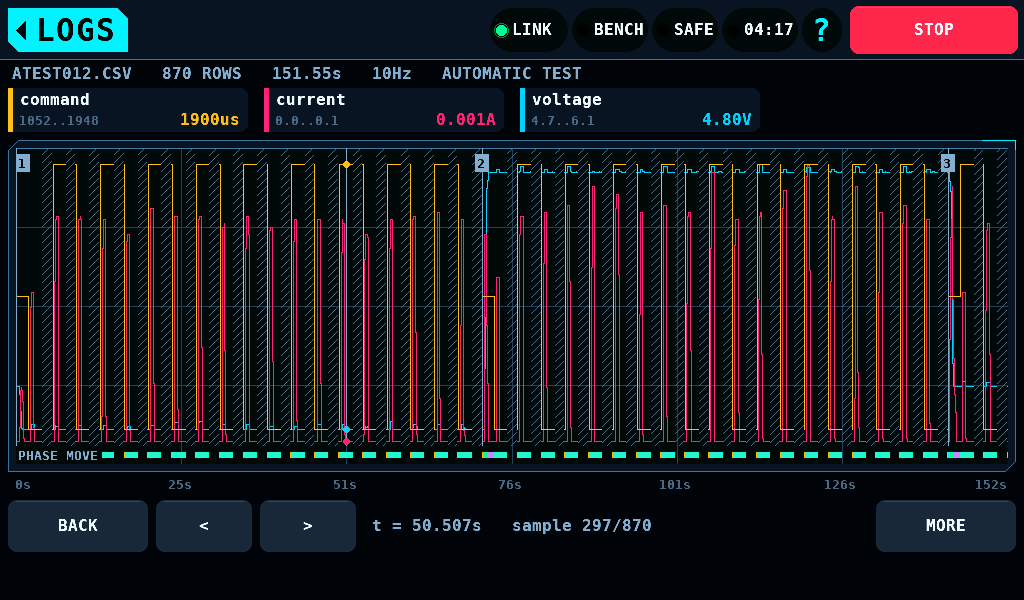
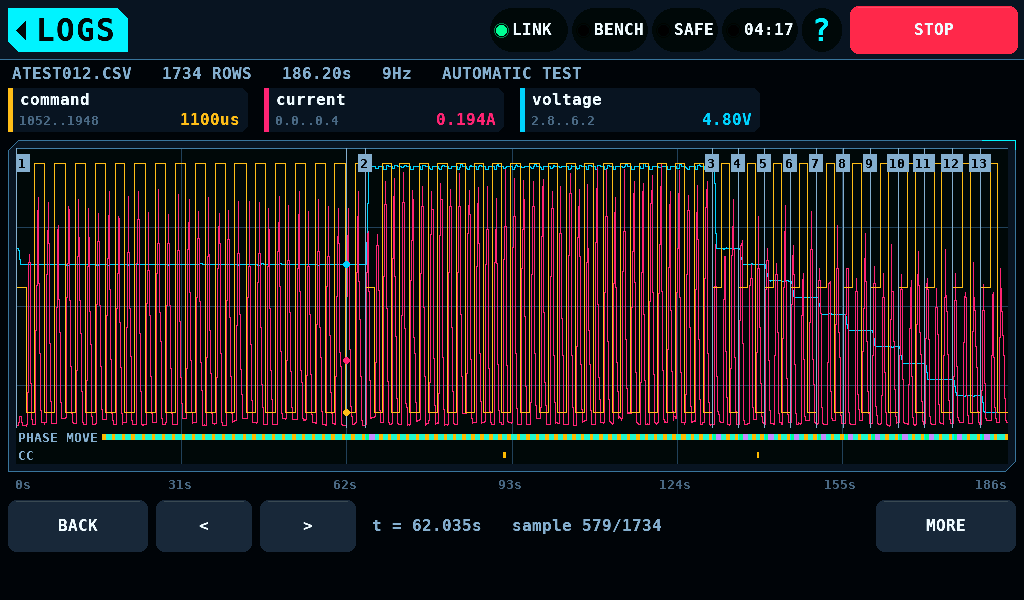
Compare time gaps in whole milliseconds and show the untrimmed ATEST run
A step of exactly the gap threshold read as a gap where the build's float
times made 0.7s to 1.2s 0.50000006s; step and threshold now round to whole
milliseconds. The ATEST writer logs every meter reading, holds included:
the gaps of servo-mg90s.csv are rows the replay recording trimmed, so the
docs view draws the untrimmed servo-ms24-pdmini.csv and the docs say a hold
is no gap.

diff --git a/test/host/test_logview_time.c b/test/host/test_logview_time.c
@@ -45,6 +45,7 @@
 /** @brief The bench's recordings, read from fixtures/. */
 static char g_mg90s[64 * 1024];
 static char g_ms24[96 * 1024];
+static char g_pdmini[128 * 1024];
 /** @brief The cases' own files, written by each case. */
 static char g_made[64 * 1024];
 
@@ -55,6 +56,7 @@ static const struct {
 } k_files[] = {
     { "ATEST012.CSV", g_mg90s },
     { "SERVO014.CSV", g_ms24 },
+    { "ATEST013.CSV", g_pdmini },
     { "MOTOR050.CSV", g_made },
     { "SUPPL051.CSV", g_made },
     { "ATEST052.CSV", g_made },
@@ -226,9 +228,10 @@ static int over_row(char *out, size_t n, int i)
 
 /* ------------------------------------------------------------- the cases */
 
-/* The AUTOMATIC TEST the bench recorded: drawn over its time, its steps a
- * line each, its phases a strip, the rows the logger did not write while a
- * position was held hatched. */
+/* The AUTOMATIC TEST the bench recorded, trimmed for the replay suite (of
+ * each command's MOVE and HOLD rows only those within 2.0s of its first and
+ * its last are kept): drawn over its time, its steps a line each, its
+ * phases a strip, the rows the trim took out hatched. */
 TEST_CASE(an_automatic_test_recorded_on_the_bench_draws_over_its_time)
 {
     char got[160];
@@ -285,6 +288,69 @@ TEST_CASE(an_automatic_test_recorded_on_the_bench_draws_over_its_time)
     /* The step line of step 2 down the traces, in the faint text. */
     CHECK(column_count(log_graph_row_px(405), LV_PV_TOP + 50,
                        log_graph_strip_y(0) - 6, UI_TEXT_DIM) > 100);
+}
+
+/* The untrimmed AUTOMATIC TEST of an MS24 on the PD mini: the writer
+ * takes a row at every meter reading in every phase, its 545 HOLD rows
+ * included, so no hold is a gap and nothing is hatched. */
+TEST_CASE(an_untrimmed_automatic_test_holds_without_a_gap)
+{
+    REQUIRE(read_fixture("servo-ms24-pdmini.csv", g_pdmini,
+                         sizeof(g_pdmini)));
+    REQUIRE(open_time("ATEST013.CSV"));
+    const log_data_t *d = log_viewer_data();
+    REQUIRE(d != NULL);
+    CHECK_EQ(d->count, 1734);
+    int gaps = 0;
+    for (int i = 1; i < d->count; ++i) {
+        gaps += log_graph_gap_before(i);
+    }
+    CHECK_EQ(gaps, 0);
+    int hatched = 0;
+    for (int x = PLOT_X0; x <= PLOT_X1; ++x) {
+        hatched += log_graph_gap_col(x);
+    }
+    CHECK_EQ(hatched, 0);
+}
+
+/* An AUTOMATIC TEST at the PD mini's 0.105s: a hold of 0.84s written row
+ * by row is no gap; 0.84s with no row in the middle of a move is one,
+ * hatched, the trace broken across it. */
+static int atest_row(char *out, size_t n, int i)
+{
+    /* Rows 0-9 MOVE, 10-17 HOLD, 18-21 MOVE, then 0.84s lost, 22-29 MOVE. */
+    const double t = 0.105 * (double)i + (i >= 22 ? 0.735 : 0.0);
+    const char *ph = (i >= 10 && i <= 17) ? "HOLD" : "MOVE";
+    return snprintf(out, n, "%.3f;STEP;1;%s;1900;%.3f;6.00;CV\n", t, ph,
+                    0.2 + 0.01 * (double)i);
+}
+
+TEST_CASE(an_automatic_test_hold_is_no_gap_and_rows_lost_mid_move_are)
+{
+    make("time (s);test;step;phase;command (us);current (A);voltage (V);"
+         "mode", 30, atest_row);
+    REQUIRE(open_time("ATEST052.CSV"));
+    int gaps = 0;
+    for (int i = 1; i < 30; ++i) {
+        gaps += log_graph_gap_before(i);
+    }
+    CHECK_EQ(gaps, 1);
+    CHECK(log_graph_gap_before(22));
+    for (int i = 10; i <= 18; ++i) {
+        CHECK(!log_graph_gap_before(i));
+    }
+    const int a = log_graph_row_px(21);
+    const int b = log_graph_row_px(22);
+    REQUIRE(b - a > 4);
+    CHECK(log_graph_gap_col((a + b) / 2));
+    CHECK(!log_graph_gap_col((log_graph_row_px(12) + log_graph_row_px(13))
+                             / 2));
+    const gfx_color_t cur = log_viewer_series_color(1);
+    int in_gap = 0;
+    for (int x = a + 1; x < b; ++x) {
+        in_gap += column_count(x, LV_PV_TOP + 50, LV_PV_BOTTOM - 20, cur);
+    }
+    CHECK_EQ(in_gap, 0);
 }
 
 /* The SERVO run of INA3221 windows: current and voltage over 69s, no strip
@@ -371,6 +437,41 @@ TEST_CASE(a_gap_of_the_threshold_is_none_and_one_interval_more_is_one)
                               UI_TEXT_FAINT);
     }
     CHECK(faint > 0);
+}
+
+/* 0.1s rows and a step from 0.7s to 1.2s: the floats the build keeps make
+ * it 0.50000006s, which is the 0.5s threshold and no gap; 0.7s to 1.201s,
+ * 1ms past it, is one. */
+static float g_jump_to;
+
+static int tenth_row(char *out, size_t n, int i)
+{
+    const double t = (i <= 7) ? 0.1 * (double)i
+                              : (double)g_jump_to + 0.1 * (double)(i - 8);
+    return snprintf(out, n, "%.3f;12.0;2.0;1000;20;measured\n", t);
+}
+
+TEST_CASE(a_step_of_the_threshold_in_float_times_is_no_gap)
+{
+    g_jump_to = 1.2f;
+    make("time (s);voltage (V);current (A);rpm (rpm);throttle (%);source",
+         30, tenth_row);
+    REQUIRE(open_time("MOTOR050.CSV"));
+    const log_data_t *d = log_viewer_data();
+    REQUIRE(d != NULL);
+    /* The floats' step is a hair over 0.5s. */
+    CHECK((double)d->time[8] - (double)d->time[7] > 0.5);
+    CHECK(!log_graph_gap_before(8));
+    g_jump_to = 1.201f;
+    make("time (s);voltage (V);current (A);rpm (rpm);throttle (%);source",
+         30, tenth_row);
+    REQUIRE(open_time("MOTOR050.CSV"));
+    CHECK(log_graph_gap_before(8));
+    int gaps = 0;
+    for (int i = 1; i < 30; ++i) {
+        gaps += log_graph_gap_before(i);
+    }
+    CHECK_EQ(gaps, 1);
 }
 
 /* A time that steps back: the build numbers the rows, so the graph spaces
@@ -626,8 +727,11 @@ TEST_CASE(a_time_file_speaks_german)
 int main(void)
 {
     RUN(an_automatic_test_recorded_on_the_bench_draws_over_its_time);
+    RUN(an_untrimmed_automatic_test_holds_without_a_gap);
+    RUN(an_automatic_test_hold_is_no_gap_and_rows_lost_mid_move_are);
     RUN(a_servo_run_of_ina3221_windows_draws_over_its_time);
     RUN(a_gap_of_the_threshold_is_none_and_one_interval_more_is_one);
+    RUN(a_step_of_the_threshold_in_float_times_is_no_gap);
     RUN(a_time_that_steps_back_spaces_the_rows_evenly);
     RUN(marks_past_256_are_counted_not_drawn);
     RUN(a_cell_above_its_range_and_a_clipped_window_are_spans);

diff --git a/test/host/render_screen.c b/test/host/render_screen.c
@@ -387,8 +387,9 @@ static size_t limit_search(size_t at, int *row, int search, bool high,
     }
 }
 
-/* The time graph's files: an AUTOMATIC TEST and a SERVO run of INA3221
- * windows as the bench recorded them (test/host/fixtures, the folder
+/* The time graph's files: an AUTOMATIC TEST (the untrimmed MS24 run on
+ * the PD mini) and a SERVO run of INA3221 windows as the bench recorded
+ * them (test/host/fixtures, the folder
  * render_ui.py names in RENDER_FIXTURE_DIR), and a SUPPLY run of 0.05s
  * rows that holds the set voltage, falls into CC at 2.00A from 4.00s to
  * 7.00s, runs on the model from 9.00s and misses its rows from 11.00s to
@@ -396,7 +397,7 @@ static size_t limit_search(size_t at, int *row, int search, bool high,
 #ifndef RENDER_FIXTURE_DIR
 #define RENDER_FIXTURE_DIR "test/host/fixtures"
 #endif
-static char g_mg90s_csv[65536];
+static char g_atest_csv[131072];
 static char g_ms24_csv[98304];
 static char g_suppl_csv[32768];
 static bool g_time_card;
@@ -419,7 +420,7 @@ static void read_fixture(const char *name, char *out, size_t cap)
 
 static void make_time_csvs(void)
 {
-    read_fixture("servo-mg90s.csv", g_mg90s_csv, sizeof(g_mg90s_csv));
+    read_fixture("servo-ms24-pdmini.csv", g_atest_csv, sizeof(g_atest_csv));
     read_fixture("servo-ms24-windows.csv", g_ms24_csv, sizeof(g_ms24_csv));
     size_t at = (size_t)snprintf(g_suppl_csv, sizeof(g_suppl_csv), "%s\n",
                                  "time (s);set (V);voltage (V);limit (A);"
@@ -536,7 +537,7 @@ static const log_fake_t k_bench_time[] = {
     { "SUPPL016.CSV", 21950, 1792951620 },    /* 2026-10-25 18:07 */
 };
 static const log_fake_t k_user_time[] = {
-    { "ATEST012.CSV", 50239, 1792699380 },    /* 2026-10-22 20:03 */
+    { "ATEST012.CSV", 102873, 1792699380 },    /* 2026-10-22 20:03 */
 };
 static const log_fake_t k_user[] = {
     { "LIMIT006.TXT", 1873, 1792858800 },     /* 2026-10-24 16:20 */
@@ -663,7 +664,7 @@ static bool fake_open(const char *name, log_source_t *src, void *ctx)
         return true;
     }
     if (g_time_card) {
-        const char *text = (strncmp(name, "ATEST", 5) == 0) ? g_mg90s_csv
+        const char *text = (strncmp(name, "ATEST", 5) == 0) ? g_atest_csv
                            : (strncmp(name, "SERVO", 5) == 0) ? g_ms24_csv
                                                               : g_suppl_csv;
         log_source_memory(src, &g_csv_ctx, text, strlen(text));

diff --git a/shared/ui/log_graph_time.c b/shared/ui/log_graph_time.c
@@ -58,8 +58,12 @@ void lg_time_setup(void)
         scale_of(k);
     }
     lg.has_time = s.data.time_name[0] != '\0';
-    const double medians = LG_GAP_MEDIANS * s.data.median_dt_s;
-    lg.gap_s = (medians > LG_GAP_MIN_S) ? medians : LG_GAP_MIN_S;
+    /* In whole milliseconds, as the bench writes its times: a median of
+     * 0.1s the build keeps as 0.1000000015 is 100ms. */
+    const long median_ms = lround(s.data.median_dt_s * 1000.0);
+    const long medians_ms = lround(LG_GAP_MEDIANS * (double)median_ms);
+    const long min_ms = lround(LG_GAP_MIN_S * 1000.0);
+    lg.gap_ms = (medians_ms > min_ms) ? medians_ms : min_ms;
     lg.plot_h = PV_H - lg.mk.n_strips * LG_STRIP_ROW;
 }
 
@@ -68,7 +72,10 @@ bool lg_time_gap_before(int i)
     if (!lg.has_time || i <= 0 || i >= s.data.count) {
         return false;
     }
-    return (double)s.data.time[i] - (double)s.data.time[i - 1] > lg.gap_s;
+    /* Whole milliseconds: the build keeps the times as floats, so 0.7s to
+     * 1.2s reads 0.50000006s, which is the threshold and no gap. */
+    const double dt = (double)s.data.time[i] - (double)s.data.time[i - 1];
+    return lround(dt * 1000.0) > lg.gap_ms;
 }
 
 /**

diff --git a/shared/ui/log_graph_int.h b/shared/ui/log_graph_int.h
@@ -117,7 +117,8 @@ typedef struct {
     uint8_t press_id;               /**< the contact that holds it      */
     /* A time plot. */
     bool   has_time;                /**< rows stand at their time       */
-    double gap_s;                   /**< a longer step in time is a gap */
+    long   gap_ms;                  /**< a longer step in time is a gap,
+                                         in whole milliseconds          */
     float  t0;                      /**< the window's first time        */
     float  t1;                      /**< its last                       */
     /** @brief Per pixel column, LG_COL_ flags. */

diff --git a/docs/Screens-de.md b/docs/Screens-de.md
@@ -3836,7 +3836,7 @@ Importansicht:
 ![Ein LIMIT RUN in der Grafik: current und angle über dem Puls](img/de/logs-limit-graph.png)
 ![Die Suche eines RUDDER AUTO in der Grafik](img/de/logs-ruddr-search.png)
 ![Die Schritte eines RUDDER AUTO in der Grafik](img/de/logs-ruddr-steps.png)
-![Ein AUTOMATIC TEST über seiner Zeit: seine Schritte, seine Phasen und die Zeilen, die beim Halten einer Position fehlen](img/de/logs-atest-graph.png)
+![Ein AUTOMATIC TEST über seiner Zeit: seine Schritte und seine Phasen, das Halten eingeschlossen](img/de/logs-atest-graph.png)
 ![Ein SUPPLY-Lauf über seiner Zeit: die Streifen CC und MODELL, eine Lücke von 2s](img/de/logs-supply-graph.png)
 ![Ein SERVO-Lauf aus INA3221-Fenstern über seiner Zeit](img/de/logs-windows-graph.png)
 ![MEHR auf der Grafik: SPALTEN](img/de/logs-plot-more.png)
@@ -3976,7 +3976,7 @@ der x-Spalte; die Cursorzeile in der Fußleiste
 Ein AUTOMATIC TEST, ein SUPPLY-, ein MOTOR- und ein SERVO-Lauf öffnen in
 der Grafik über ihrer Zeit (`shared/ui/log_graph_time.c`). Die Kopfzeile
 nennt nach Dauer und Rate die Art
-(`ATEST012.CSV   870 ZEILEN   151.55s   10Hz   AUTOMATISCHER TEST`); die
+(`ATEST012.CSV   1734 ZEILEN   186.20s   9Hz   AUTOMATISCHER TEST`); die
 Chips gehören den vier Reihen, mit ihrem Wert am Cursor.
 
 - Eine Zeile steht bei ihrer Zeit im Fenster: die erste Zeile des
@@ -3989,8 +3989,11 @@ Chips gehören den vier Reihen, mit ihrem Wert am Cursor.
   Spalten zwischen den beiden Zeilen sind schraffiert, 1 Pixel von 8
   entlang jeder Diagonalen. `ZEILEN FEHLEN` steht in der breitesten
   Lücke, wo es hineinpasst. Ein Schritt von genau der Schwelle ist keine
-  Lücke. Der AUTOMATIC TEST schreibt keine Zeile, solange er eine Position
-  hält; jedes Halten ist darum eine Lücke.
+  Lücke; Schritt und Schwelle werden in ganzen Millisekunden verglichen,
+  0.7s bis 1.2s bei Zeilen von 0.1s ist also keine Lücke. Der AUTOMATIC
+  TEST schreibt in jeder Phase, das Halten
+  eingeschlossen, eine Zeile je Messwert; ein Halten erscheint darum als
+  Zeilen, nicht als Lücke.
 - Bis zu zwei Streifen von 6px stehen unter den Linien, jeder in einer
   Zeile von 18px mit seiner Beschriftung in 8 x 16 am linken Ende; die
   Linien nehmen die Höhe der Grafik weniger 18px je Streifen. PHASE

diff --git a/docs/Screens.md b/docs/Screens.md
@@ -3546,7 +3546,7 @@ first:
 ![A LIMIT RUN in the graph: current and angle over the pulse](img/logs-limit-graph.png)
 ![A RUDDER AUTO's search in the graph](img/logs-ruddr-search.png)
 ![A RUDDER AUTO's steps in the graph](img/logs-ruddr-steps.png)
-![An AUTOMATIC TEST over its time: its steps, its phases and the rows missing while a position was held](img/logs-atest-graph.png)
+![An AUTOMATIC TEST over its time: its steps and its phases, holds included](img/logs-atest-graph.png)
 ![A SUPPLY run over its time: the CC and MODEL strips, a gap of 2s](img/logs-supply-graph.png)
 ![A SERVO run of INA3221 windows over its time](img/logs-windows-graph.png)
 ![MORE on the plot: COLUMNS](img/logs-plot-more.png)
@@ -3673,7 +3673,7 @@ it; the cursor's line in the footer (`pulse 1040us   row 112 of 116`).
 An AUTOMATIC TEST, a SUPPLY, a MOTOR and a SERVO run open in the graph
 over their time (`shared/ui/log_graph_time.c`). The summary line adds the
 kind to the duration and the rate
-(`ATEST012.CSV   870 ROWS   151.55s   10Hz   AUTOMATIC TEST`); the chips
+(`ATEST012.CSV   1734 ROWS   186.20s   9Hz   AUTOMATIC TEST`); the chips
 are the four series' own, with their value at the cursor.
 
 - A row stands at its time in the window: the window's first row on the
@@ -3684,8 +3684,9 @@ are the four series' own, with their value at the cursor.
   0.5s is a gap: the traces break there and the columns between the two
   rows are hatched, 1 pixel in 8 along each diagonal. `ROWS MISSING`
   stands in the widest gap where it fits. A step of exactly the threshold
-  is no gap. The AUTOMATIC TEST writes no row while a position is held,
-  so each of its holds is a gap.
+  is no gap; steps and threshold compare in whole milliseconds, so 0.7s
+  to 1.2s at 0.1s rows is no gap. The AUTOMATIC TEST writes a row for every meter reading in
+  every phase, holds included, so a hold shows as rows, not as a gap.
 - Up to two strips of 6px stand under the traces, each in a row of 18px
   with its label in 8 x 16 at its left end; the traces take the plot's
   height less 18px a strip. PHASE (AUTOMATIC TEST) colours each `phase`

diff --git a/help/content/de/logs.md b/help/content/de/logs.md
@@ -186,11 +186,11 @@ Eine Laufdatei des Prüfstands steht über ihrer Zeit, wie der nächste Abschnit
 
 ## Ein Lauf über seiner Zeit
 
-![Ein AUTOMATIC TEST: seine Schritte, seine Phasen und die Zeilen, die beim Halten einer Position fehlen](view:logs-atest-graph)
+![Ein AUTOMATIC TEST: seine Schritte und seine Phasen, das Halten eingeschlossen](view:logs-atest-graph)
 
-Ein AUTOMATIC TEST, ein SUPPLY-, ein MOTOR- und ein SERVO-Lauf öffnen in der Grafik mit jeder Zeile bei ihrer Zeit. Die Kopfzeile nennt nach Dauer und Rate die Art: `ATEST012.CSV   870 ZEILEN   151.55s   10Hz   AUTOMATISCHER TEST`.
+Ein AUTOMATIC TEST, ein SUPPLY-, ein MOTOR- und ein SERVO-Lauf öffnen in der Grafik mit jeder Zeile bei ihrer Zeit. Die Kopfzeile nennt nach Dauer und Rate die Art: `ATEST012.CSV   1734 ZEILEN   186.20s   9Hz   AUTOMATISCHER TEST`.
 
-- Ein Zeitschritt länger als 3 mittlere Zeilenabstände (Median) und länger als 0.5s ist eine Lücke: die Linien brechen ab, die Lücke ist schraffiert, mit `ZEILEN FEHLEN`, wo es hineinpasst. Der AUTOMATIC TEST schreibt keine Zeile, solange er eine Position hält; jedes Halten ist darum schraffiert.
+- Ein Zeitschritt länger als 3 mittlere Zeilenabstände (Median) und länger als 0.5s ist eine Lücke: die Linien brechen ab, die Lücke ist schraffiert, mit `ZEILEN FEHLEN`, wo es hineinpasst. Der AUTOMATIC TEST schreibt eine Zeile je Messwert, auch beim Halten; ein Halten ist darum keine Lücke.
 - Eine Datei, deren Zeitspalte zurückspringt, steht nach Zeilennummer und zeigt keine Dauer.
 - Jeder Schritt eines AUTOMATIC TEST beginnt mit einer Linie und seiner Nummer auf einem Schild.
 - Ein Balken am oberen Rand zeigt Zeilen über ihrem Bereich (`>65535` rpm, Schild `>`) in der Warnfarbe und begrenzte Messfenster (`clipped` über 0, Schild `BEGRENZT`) in der Gefahrenfarbe.

diff --git a/help/content/en/logs.md b/help/content/en/logs.md
@@ -186,11 +186,11 @@ A run file the bench wrote stands over its time, as the next section shows. A fi
 
 ## A run over its time
 
-![An AUTOMATIC TEST: its steps, its phases and the rows missing while a position was held](view:logs-atest-graph)
+![An AUTOMATIC TEST: its steps and its phases, holds included](view:logs-atest-graph)
 
-An AUTOMATIC TEST, a SUPPLY, a MOTOR and a SERVO run open in the graph with each row at its time. The summary adds the kind to the duration and the rate: `ATEST012.CSV   870 ROWS   151.55s   10Hz   AUTOMATIC TEST`.
+An AUTOMATIC TEST, a SUPPLY, a MOTOR and a SERVO run open in the graph with each row at its time. The summary adds the kind to the duration and the rate: `ATEST012.CSV   1734 ROWS   186.20s   9Hz   AUTOMATIC TEST`.
 
-- A step in time longer than 3 median row intervals and longer than 0.5s is a gap: the lines break and the gap is hatched, with `ROWS MISSING` where it fits. The AUTOMATIC TEST writes no row while it holds a position, so each hold is hatched.
+- A step in time longer than 3 median row intervals and longer than 0.5s is a gap: the lines break and the gap is hatched, with `ROWS MISSING` where it fits. The AUTOMATIC TEST writes a row for every meter reading, holds included, so a hold is no gap.
 - A file whose time column steps back is placed by row number and shows no duration.
 - Each step of an AUTOMATIC TEST starts a line with the step's number on a tag.
 - A bar at the plot's top marks rows above their range (`>65535` rpm, tag `>`) in the warning colour and clipped meter windows (`clipped` above 0, tag `CLIPPED`) in the danger colour.
